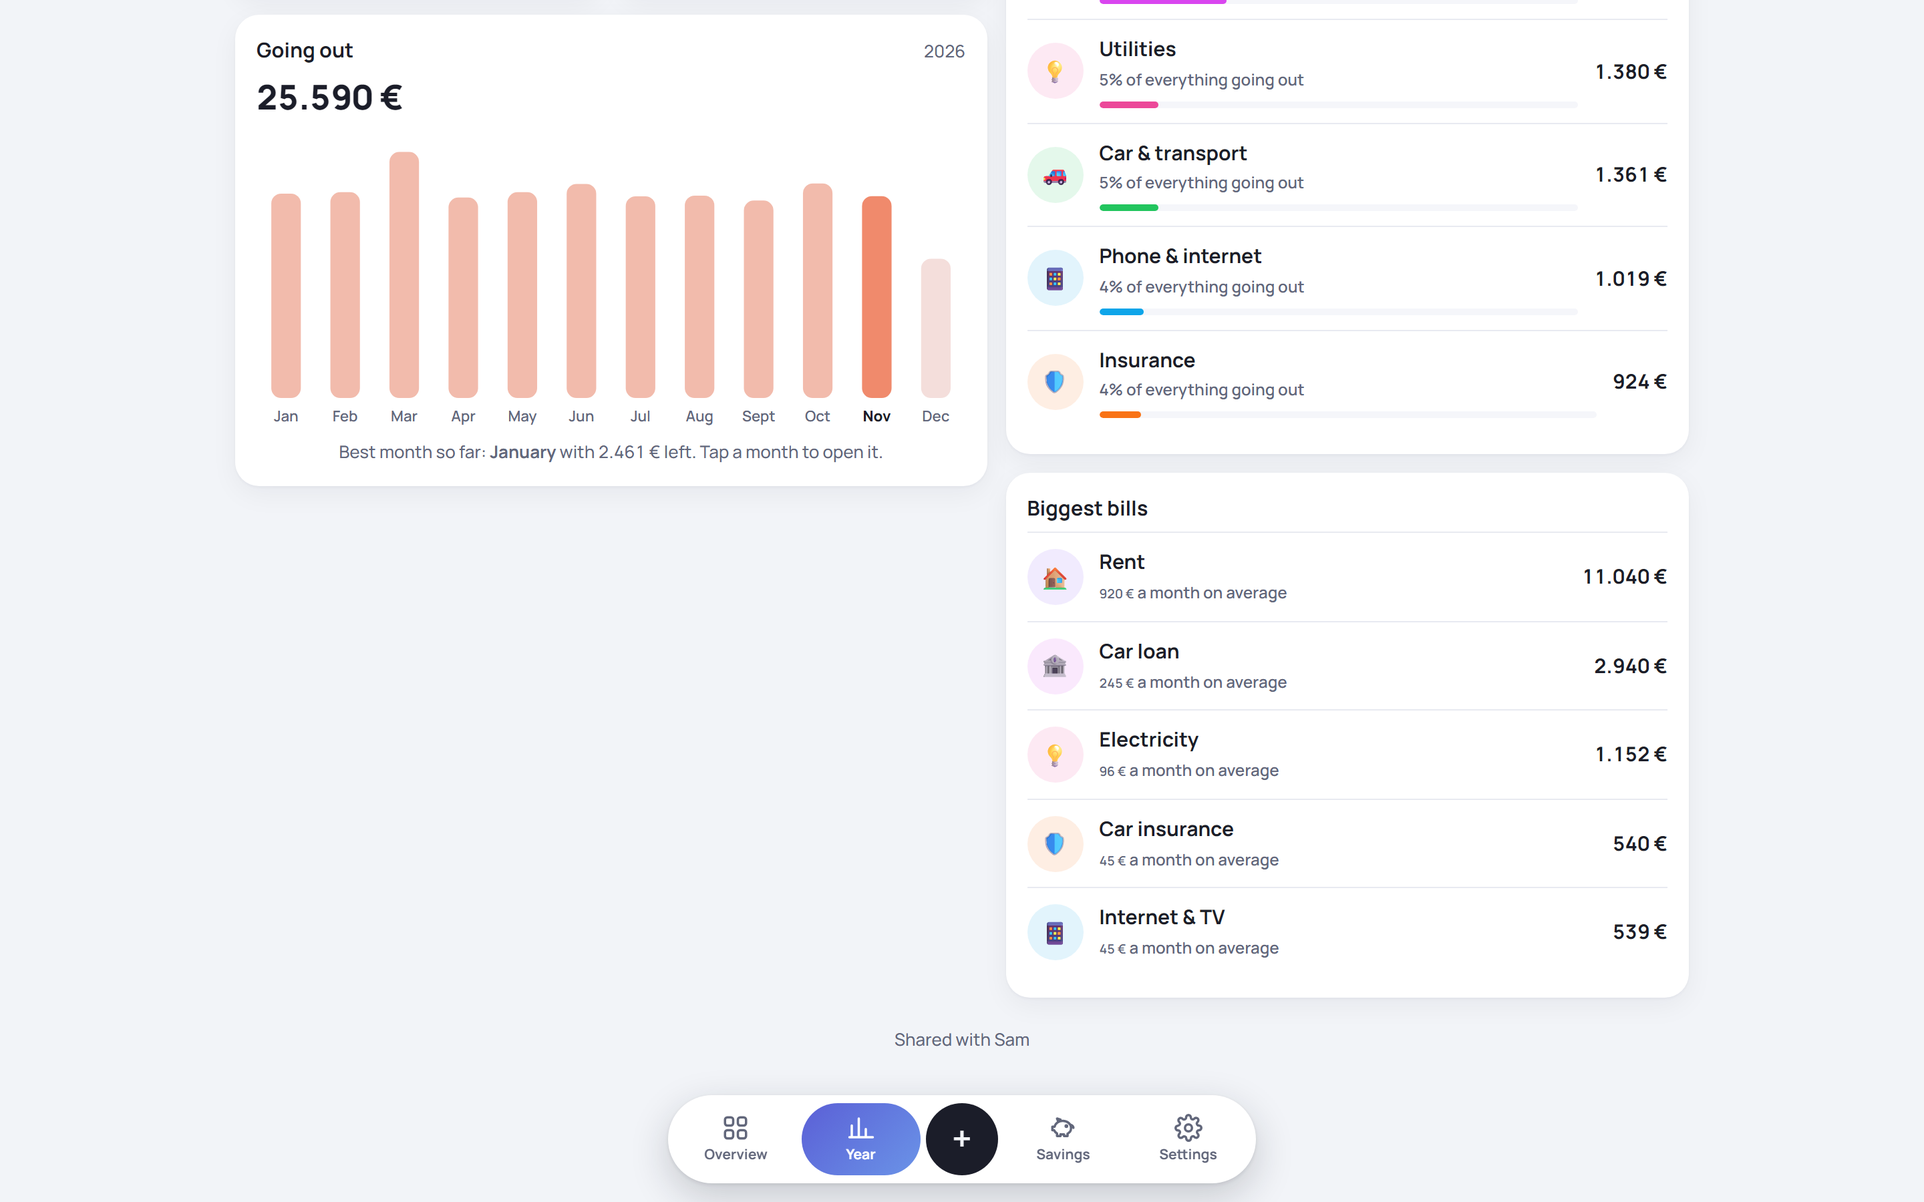
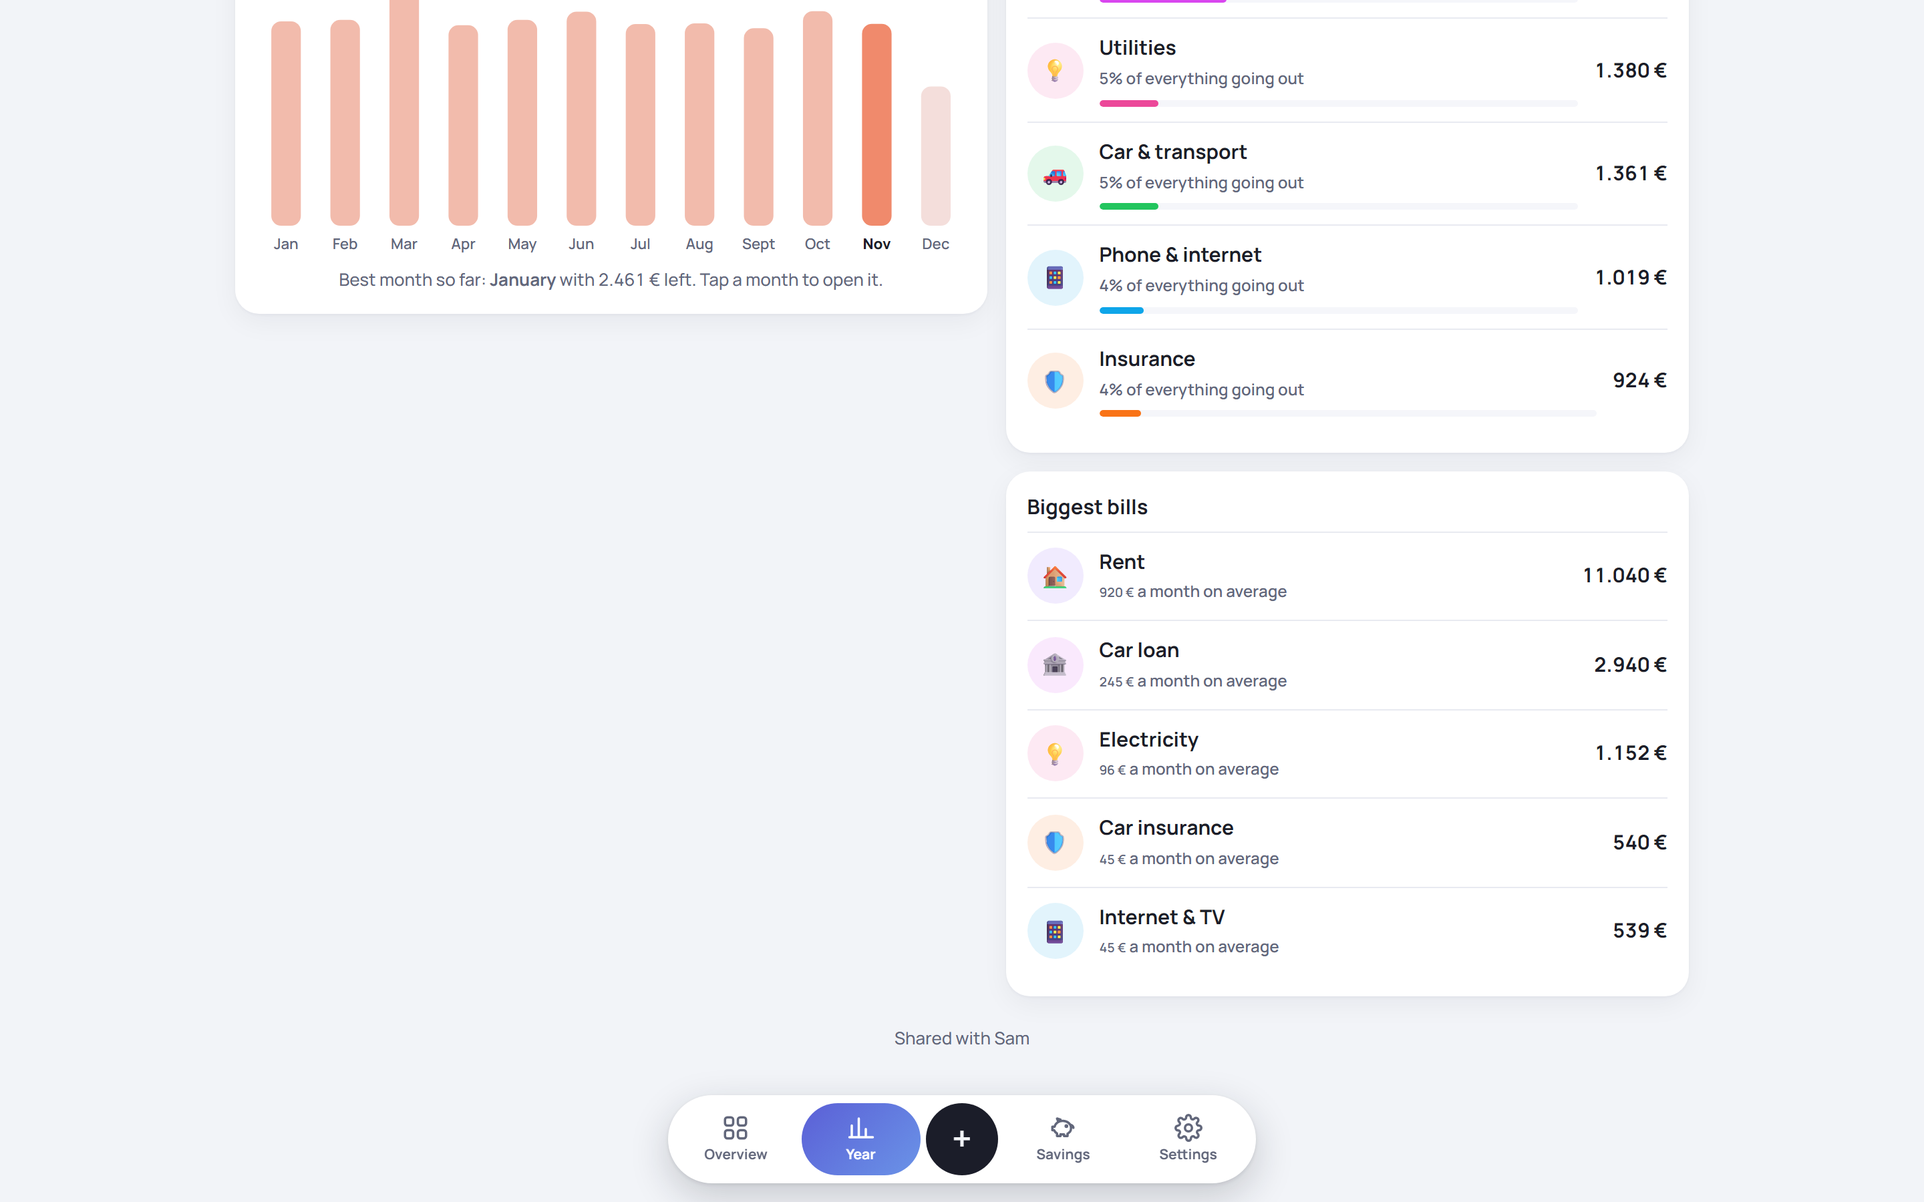
Plan for next year's bills: yearly bill total, monthly amount to have it saved by a chosen month (or spread over the year), one tap to make it a savings goal (20261122k)

diff --git a/docs/index.html b/docs/index.html
@@ -369,8 +369,8 @@ body{padding-bottom:calc(100px + env(safe-area-inset-bottom))}
 .savempty>*{position:relative;z-index:1}
 .savempty .e{font-size:3.2em}
 </style>
-<script src="config.js?v=20261122j"></script>
-<script type="module" src="cloud.js?v=20261122j"></script>
+<script src="config.js?v=20261122k"></script>
+<script type="module" src="cloud.js?v=20261122k"></script>
 </head>
 <body>
 <div id="app"></div>
@@ -379,7 +379,7 @@ body{padding-bottom:calc(100px + env(safe-area-inset-bottom))}
 
 <script>
 "use strict";
-const APP_VERSION = "20261122j";
+const APP_VERSION = "20261122k";
 // demo mode: no Firebase config, or ?demo on a local test server (never touches the real account)
 const LOCAL = !window.BUDGET_FIREBASE || (/^(localhost|127\.0\.0\.1)$/.test(location.hostname) && /[?&]demo\b/.test(location.search));
 
@@ -610,6 +610,21 @@ function insights(m) {
   if (top && t.out > 0) out.push({ key: "top:" + top[0], icon: "🏠", tone: "", html: `<b>${esc(cat(top[0]).name)}</b> is your biggest cost this month (${Math.round(top[1] / t.out * 100)}% of everything going out).` });
   return out.slice(0, 4);
 }
+// every bill in a calendar year: how often, which months, and its total (one-month changes and skips included)
+function billsPlan(year) {
+  const map = {};
+  for (let i = 1; i <= 12; i++) {
+    const m = year + "-" + pad(i);
+    for (const it of monthItems(m)) if (it.type === "bill" && !it.skipped) {
+      const o = (map[it.id] ||= { id: it.id, name: it.name, category: it.category, repeat: it.repeat || "once", count: 0, total: 0, months: [] });
+      o.count++; o.total = r2(o.total + it.amt); o.months.push(i);
+    }
+  }
+  const items = Object.values(map).sort((a, z) => z.total - a.total);
+  return { items, total: sum(items, x => x.total) };
+}
+// how much to put aside each month from `from` to `by` (both included) to reach `total` — rounded UP to the cent so it's enough
+function perMonth(total, from, by) { const n = mi(by) - mi(from) + 1; return n > 0 ? Math.ceil(Math.round(total * 100) / n) / 100 : null; }
 // percent change, null if no base
 const change = (now, before) => before > 0 ? Math.round((now - before) / before * 100) : null;
 function chip(pct, lowerIsGood) {
@@ -901,6 +916,7 @@ function renderDetails(m, t, items, l, b) {
 }
 
 function renderYear() {
+  const cy = today().getFullYear();
   const y = S.year, ms = Array.from({ length: 12 }, (_, i) => y + "-" + pad(i + 1)), cur = thisMonth();
   const T = ms.map(m => ({ m, ...totals(m) }));
   const P = Array.from({ length: 12 }, (_, i) => totals((y - 1) + "-" + pad(i + 1)));
@@ -943,6 +959,9 @@ function renderYear() {
       </div>
     </div>
     <div class="grid">
+      ${(() => { const np = billsPlan(cy + 1); return `<div class="card" data-act="billplan" style="cursor:pointer"><div class="ttl"><b>🧾 Next year's bills</b><span class="lk" style="color:var(--accent);font-weight:700">Plan for them ›</span></div>
+        ${np.total ? `<div class="mrow"><span class="v" style="font-size:1.4em">${money(np.total, { round: true })}</span><span class="muted small">≈ ${money(np.total / 12, { round: true })} a month</span></div><div class="muted small" style="margin-top:4px">${np.items.length} bills in ${cy + 1}. See how much to put aside each month to have it ready.</div>`
+          : `<p class="muted small" style="margin:4px 0">No bills planned for ${cy + 1} yet. Bills that repeat show up here automatically.</p>`}</div>`; })()}
       <div class="card"><div class="ttl"><b>Categories</b><span class="muted small">${y}</span></div>${catRows.length ? catRows.slice(0, 7).map(([id, v]) => { const c = cat(id);
         return `<div class="row2" style="cursor:default"><span class="ci" style="background:${c.color}1f">${esc(c.emoji)}</span><span class="mn"><b>${esc(c.name)}</b><span>${Math.round(v / (out || 1) * 100)}% of everything going out</span><div class="thin"><i style="width:${v / catRows[0][1] * 100}%;background:${c.color}"></i></div></span><span class="rt"><b>${money(v, { round: true })}</b></span></div>`; }).join("") : `<p class="muted small" style="margin:4px 0">No spending categories recorded in ${y} yet. Bills and spending you add show up here, biggest first.</p>`}</div>
       <div class="card"><div class="ttl"><b>Biggest bills</b></div>${topBills.length ? topBills.map(x => { const c = cat(x.c);
@@ -959,6 +978,7 @@ function renderGoals() {
     ${gs.length ? `<div class="card gaugecard">${gauge(gs.map(g => ({ v: goalSaved(g), color: g.color || "var(--save)", t: g.name })), Math.max(target, total))}
       <div class="gl">Saved in total</div><div class="gv">${money(total)}</div>
       <div class="gs">${target ? `${Math.round(Math.min(1, total / target) * 100)}% of ${money(target, { round: true })} across ${gs.length} goal${gs.length > 1 ? "s" : ""}` : `${gs.length} goal${gs.length > 1 ? "s" : ""}`}</div></div>` : ""}
+    ${gs.length ? `<div class="card" data-act="billplan" style="cursor:pointer;display:flex;align-items:center;gap:12px"><span class="emo" style="background:color-mix(in srgb,#f97316 16%,transparent)">🧾</span><span style="flex:1"><b>Plan for next year's bills</b><br><span class="muted small">How much to put aside each month so next year's bills are covered</span></span><span style="color:var(--accent);font-weight:800">›</span></div>` : ""}
     ${gs.length ? `<div class="grid two" style="align-items:stretch">${gs.map(g => {
       const s = goalSaved(g), tg = num(g.target), pct = tg ? Math.min(100, s / tg * 100) : 0;
       return `<div class="card gcard" data-act="gview" data-id="${esc(g.id)}">
@@ -967,7 +987,7 @@ function renderGoals() {
         ${tg ? `<div class="bar"><i style="width:${pct}%;background:${g.color || "#8b5cf6"}"></i></div>` : ""}
         <div class="ft"><span>${tg ? (s >= tg ? "Reached!" : `${money(tg - s, { round: true })} to go${g.by ? " · by " + esc(monthName(g.by, { month: "short", year: "numeric" })) : ""}`) : "No target"}</span>
           <button class="btn sm pri" data-act="gmove" data-id="${esc(g.id)}" data-dir="1">+ Add money</button></div>
-      </div>`; }).join("")}</div>` : `<div class="card welcome savempty"><div class="e">🐷</div><h2 style="margin:6px 0">Saving for something?</h2><p class="muted">A holiday, a new car, an emergency fund… Make a goal, then put money in whenever you can. It shows up in that month's budget too.</p><button class="btn pri" data-act="goal">+ New savings goal</button></div>`}
+      </div>`; }).join("")}</div>` : `<div class="card welcome savempty"><div class="e">🐷</div><h2 style="margin:6px 0">Saving for something?</h2><p class="muted">A holiday, a new car, an emergency fund… Make a goal, then put money in whenever you can. It shows up in that month's budget too.</p><div class="addrow" style="justify-content:center"><button class="btn pri" data-act="goal">+ New savings goal</button><button class="btn" data-act="billplan">🧾 Plan for next year's bills</button></div></div>`}
   </div>`;
 }
 
@@ -984,6 +1004,50 @@ function openGoalView(id) {
     <div class="actions"><button class="btn pri" data-act="gmove" data-id="${esc(g.id)}" data-dir="1">+ Put money in</button><button class="btn" data-act="gmove" data-id="${esc(g.id)}" data-dir="-1">− Take out</button></div>
     ${(g.moves || []).length ? `<h4>History</h4><div>${[...g.moves].sort((a, b) => b.d.localeCompare(a.d)).slice(0, 12).map(d => `<div class="item" style="cursor:default"><div class="main"><div class="name">${num(d.a) >= 0 ? "Put in" : "Took out"}</div><div class="meta">${esc(new Date(d.d).toLocaleDateString("en-GB", { day: "numeric", month: "short", year: "numeric" }))}${d.by && B()?.kind === "shared" ? " · " + esc(whoName(d.by)) : ""}</div></div><div class="amt ${num(d.a) < 0 ? "bad" : ""}">${money(num(d.a))}</div></div>`).join("")}</div>` : ""}
     <div class="actions"><button class="btn" data-act="goal" data-id="${esc(g.id)}">Edit goal</button></div>`);
+}
+
+function openBillPlan() {
+  const cur = thisMonth(), cy = today().getFullYear();
+  let year = cy + 1, only = false, picked = null;
+  openSheet(`${head("🧾 Plan for next year's bills")}
+    <p class="muted small" style="margin-top:-6px">Adds up what your bills will cost in a year and works out how much to put aside each month so the money is there in time.</p>
+    <div class="cols"><label class="f"><span>Bills of</span><select id="bpY">${[cy + 1, cy + 2, cy].map(y => `<option ${y === year ? "selected" : ""}>${y}</option>`).join("")}</select></label>
+      <div class="f"><span>Which bills</span><div class="seg" id="bpO" style="margin:0"><button type="button" data-o="all" class="on">All</button><button type="button" data-o="irr">Not monthly</button></div></div></div>
+    <div id="bpL"></div>
+    <div class="f"><span>Have it saved by the end of</span>${monthSel("bpB", (year - 1) + "-12")}</div>
+    <div id="bpR"></div>
+    <div class="actions"><button class="btn pri" id="bpG">Make it a savings goal</button></div>`, sh => {
+    const draw = () => {
+      const plan = billsPlan(year);
+      const list = plan.items.filter(x => !only || x.repeat !== "monthly");
+      if (!picked) picked = new Set(plan.items.map(x => x.id));
+      const total = sum(list.filter(x => picked.has(x.id)), x => x.total);
+      sh.querySelector("#bpL").innerHTML = list.length ? `<div class="f"><span>${list.length} bill${list.length > 1 ? "s" : ""} in ${year} — untick any you don't want to save for</span>${list.map(x => { const c = cat(x.category);
+        const when = x.repeat === "monthly" ? `every month · ${money(x.total / x.count, { round: true, raw: true })}` : `${x.months.map(n => new Date(2000, n - 1, 1).toLocaleDateString("en-GB", { month: "short" })).join(", ")}`;
+        return `<label class="check" style="margin:0;padding:9px 0;border-top:1px solid var(--line)"><input type="checkbox" data-bp="${esc(x.id)}" ${picked.has(x.id) ? "checked" : ""}>
+          <span style="flex:1;min-width:0"><b>${esc(c.emoji)} ${esc(x.name)}</b><br><span class="muted small">${esc(when)}</span></span><b>${money(x.total, { round: true })}</b></label>`; }).join("")}</div>`
+        : `<p class="muted">${only ? "No bills that come less often than monthly in " + year + "." : "No bills in " + year + " yet. Add your regular bills first — repeating ones count automatically."}</p>`;
+      const by = readMonthSel(sh, "bpB"), pm = perMonth(total, cur, by), even = perMonth(total, year + "-01", year + "-12");
+      const n = mi(by) - mi(cur) + 1;
+      sh.querySelector("#bpR").innerHTML = total > 0 ? `<div class="box">
+        <div class="mrow"><span class="k">Bills to cover in ${year}</span><span class="v">${money(total)}</span></div>
+        <div style="margin-top:10px;font-weight:600">${pm != null ? `Put aside <b class="good" style="font-size:1.2em">${money(pm)} a month</b> for the next ${n} month${n > 1 ? "s" : ""} (${esc(monthName(cur, { month: "short", year: "numeric" }))} – ${esc(monthName(by, { month: "short", year: "numeric" }))}) to have it all by then.` : `<span class="bad">Pick a month from now on.</span>`}</div>
+        <div class="muted small" style="margin-top:8px">Or spread over ${year} itself: ${money(even)} a month — that's what these bills cost on average.</div></div>` : "";
+      sh.querySelector("#bpG").disabled = !(total > 0 && pm != null);
+    };
+    draw();
+    sh.querySelector("#bpY").onchange = ev => { year = +ev.target.value; picked = null; draw(); };
+    sh.querySelector("#bpO").onclick = ev => { const b = ev.target.closest("[data-o]"); if (!b) return; only = b.dataset.o === "irr"; sh.querySelectorAll("#bpO button").forEach(x => x.classList.toggle("on", x === b)); draw(); };
+    sh.querySelector("#bpL").addEventListener("change", ev => { const c = ev.target.closest("[data-bp]"); if (!c) return; c.checked ? picked.add(c.dataset.bp) : picked.delete(c.dataset.bp); draw(); });
+    sh.querySelector("#bpBM").onchange = sh.querySelector("#bpBY").onchange = draw;
+    sh.querySelector("#bpG").onclick = () => {
+      const plan = billsPlan(year), total = sum(plan.items.filter(x => (!only || x.repeat !== "monthly") && picked.has(x.id)), x => x.total), by = readMonthSel(sh, "bpB");
+      const name = `Bills ${year}`, old = S.goals.find(g => g.name === name);
+      w(Store.saveItem(S.bid, "goals", old?.id || null, { ...(old ? strip(old) : { moves: [], createdAt: Date.now(), color: "#f97316" }), name, emoji: "🧾", target: total, by }).done);
+      closeSheet(); toast(old ? `“${name}” updated` : `Savings goal “${name}” made — put money in each month`);
+      S.view = "goals"; _render(); window.scrollTo(0, 0);
+    };
+  });
 }
 
 function openAllCats() {
@@ -1535,6 +1599,7 @@ document.addEventListener("click", ev => {
     calday: () => { S.calDay = +t.dataset.d; _render(); },
     sub: () => { S.sub = t.dataset.v; closeSheet(); _render(); },
     allcats: openAllCats,
+    billplan: openBillPlan,
     gmove: () => openMove(t.dataset.id, +t.dataset.dir),
     sort: () => { const order = ["due", "unpaid", "amount", "name"]; const n = order[(order.indexOf(look().billSort) + 1) % order.length];
       S.profile.look = { ...look(), billSort: n }; render(); w(Store.saveProfile({ look: { billSort: n } })); },

diff --git a/tools/calc-checks.js b/tools/calc-checks.js
@@ -130,6 +130,16 @@ S.budgets[0].limits = { c9: 22 };
 check("insights warn near a limit (20,29 of 22 = 92%)", insights("2026-11").some(x => x.key === "near:c9"), true);
 delete S.budgets[0].limits;
 
+/* ---------- plan for next year's bills ---------- */
+const bp = billsPlan(2027);
+check("2027 bills: rent 12×650, electricity 12×85,40, water 6×38,10, insurance 420 (loan has ended)", bp.items.map(x => [x.id, x.count, x.total]), [["rent", 12, 7800], ["elec", 12, 1024.8], ["ins", 1, 420], ["water", 6, 228.6]]);
+check("2027 bills total", bp.total, 9473.4);
+check("water comes in Jan, Mar, May, Jul, Sep, Nov", bp.items.find(x => x.id === "water").months, [1, 3, 5, 7, 9, 11]);
+check("to have it all by end of Dec 2026, from Nov: 2 months", perMonth(9473.4, "2026-11", "2026-12"), 4736.7);
+check("spread over 2027: ÷ 12", perMonth(9473.4, "2027-01", "2027-12"), 789.45);
+check("amount per month is rounded up so it's enough (100 over 3 months)", perMonth(100, "2026-01", "2026-03"), 33.34);
+check("a date in the past gives no plan", perMonth(100, "2026-11", "2026-10"), null);
+
 /* ---------- fill in earlier months ---------- */
 check("monthly fills from the chosen month", backfillStart(ent("inc"), "2025-10"), "2025-10");
 check("quarterly keeps its quarters, never before the chosen month", backfillStart(ent("q"), "2025-10"), "2025-11");

diff --git a/docs/cloud.js b/docs/cloud.js
@@ -29,7 +29,7 @@ if (cfg) {
       [k, v === null ? F.deleteField() : (v && typeof v === "object" && !Array.isArray(v)) ? nulls(v) : v]));
 
     window.Cloud = {
-      version: "20261122j",   // must match APP_VERSION in index.html
+      version: "20261122k",   // must match APP_VERSION in index.html
       signIn: (email, pw) => A.signInWithEmailAndPassword(auth, email, pw),
       signOut: () => A.signOut(auth),
       resetPassword: email => A.sendPasswordResetEmail(auth, email),

diff --git a/README.md b/README.md
@@ -46,6 +46,7 @@ Enter your income and bills once, tick them off as you pay, and always know what
 - **Insights** in plain words from your own numbers, like "Groceries: €89 less than last month", "Everything going out is down 6%", "You're at 92% of your Eating out limit".
 - **Month-end forecast:** what's likely left on the last day, based on your usual spending for the rest of the month.
 - **Calendar** (in Details): every bill, payday, purchase and savings move on its day. Overdue bills show in red; tap a day to see what's on it.
+- **Plan for next year's bills:** adds up every bill for next year (which months the irregular ones fall in, too) and tells you how much to put aside each month to have it all by a date you pick — or what they cost spread over the year. One tap turns it into a savings goal like "Bills 2027".
 - **Optional dates:** give anything a day as well as a month (a due day, a pay day or the date of a purchase), or just pick the month. Day, month and year are dropdowns, so there's nothing to type.
 - **Fill in earlier months:** started mid-year? One tap counts your current income (and bills) in the months before, so past months and the Year view are right. Past bills are ticked as paid.
 - **Just this month:** change a bill's amount or skip it for one month without touching the others.
@@ -176,7 +177,7 @@ Data layout: `budgets/{id}` (name, kind, owner, members, currency, categories, l
 ## For developers
 
 - **Run locally:** `py -3.12 -m http.server 5174 --bind 127.0.0.1 --directory docs`, then open <http://localhost:5174>. This uses the real project, so add **`?demo`** (<http://localhost:5174/?demo>) for a demo mode that never touches it. Demo mode only works on localhost.
-- **Tests:** `node tools/test.mjs` runs 68 checks of the money maths on a demo copy (never the real database). Run it before every release.
+- **Tests:** `node tools/test.mjs` runs 75 checks of the money maths on a demo copy (never the real database). Run it before every release.
 - **How it's built:** see [ARCHITECTURE.md](ARCHITECTURE.md) for the data, the calculation rules and the access rules.
 - **Screenshots:** `node tools/screenshots.mjs` (Node 22+ and Edge or Chrome) rebuilds everything in `screenshots/` from a demo copy with invented data. Never use a real budget for screenshots.
 - **Releases:** bump the version in **three places together**: `APP_VERSION` in `docs/index.html`, the `?v=` on the `config.js` / `cloud.js` script tags, and `version:` in `docs/cloud.js`.

diff --git a/ARCHITECTURE.md b/ARCHITECTURE.md
@@ -50,6 +50,8 @@ budgets/{bid}/goals/{id}        name, emoji, target, by "YYYY-MM"|null, color, m
 | `limitsFor(m)` | Each limited category: limit, used (bills + spending, paid or not), done (the paid part) |
 | `forecast(m)` | This month only: left − likely further spending (usual monthly spending of the last 3 months minus what's spent so far; with no history, this month's daily pace × days left) |
 | `insights(m)` | Up to 4 observations: biggest category rise and fall vs last month (≥ €20 and ≥ 10%), total going out ±5% or more, saved ≥ €20 more, limits at 80%+ or over, the biggest cost |
+| `billsPlan(year)` | Every bill in a calendar year: count, months, total (one-month changes and skips included) |
+| `perMonth(total, from, by)` | Monthly amount from `from` to `by` (both included), rounded UP to the cent so it is enough |
 | `backfillStart(e, from)` | For *Fill in earlier months*: the first month on or after `from` that keeps the item's rhythm |
 
 Rules that are easy to get wrong:
@@ -74,7 +76,7 @@ Checked from outside on 2026-11-22: reads without a login give `PERMISSION_DENIE
 
 ## Tests
 
-- `node tools/test.mjs`: **68 checks** of the money maths on a demo copy, against numbers worked out by hand. They cover parsing amounts, every repeat rule across year ends, one household's month in full, autopay timing, one-month changes and skips, safe-to-spend at month ends, February and leap years, year totals, carry-over, limits, *Fill in earlier months*, formatting, forecast, insights, and backup → restore giving identical totals. **Run it before every release.**
+- `node tools/test.mjs`: **75 checks** of the money maths on a demo copy, against numbers worked out by hand. They cover parsing amounts, every repeat rule across year ends, one household's month in full, autopay timing, one-month changes and skips, safe-to-spend at month ends, February and leap years, year totals, carry-over, limits, *Fill in earlier months*, formatting, forecast, insights, the bills plan, and backup → restore giving identical totals. **Run it before every release.**
 - `node tools/screenshots.mjs`: remakes the README pictures from invented demo data.
 - Still to do: automated tests of `firestore.rules` on the Firebase emulator (needs Java 21).
 
